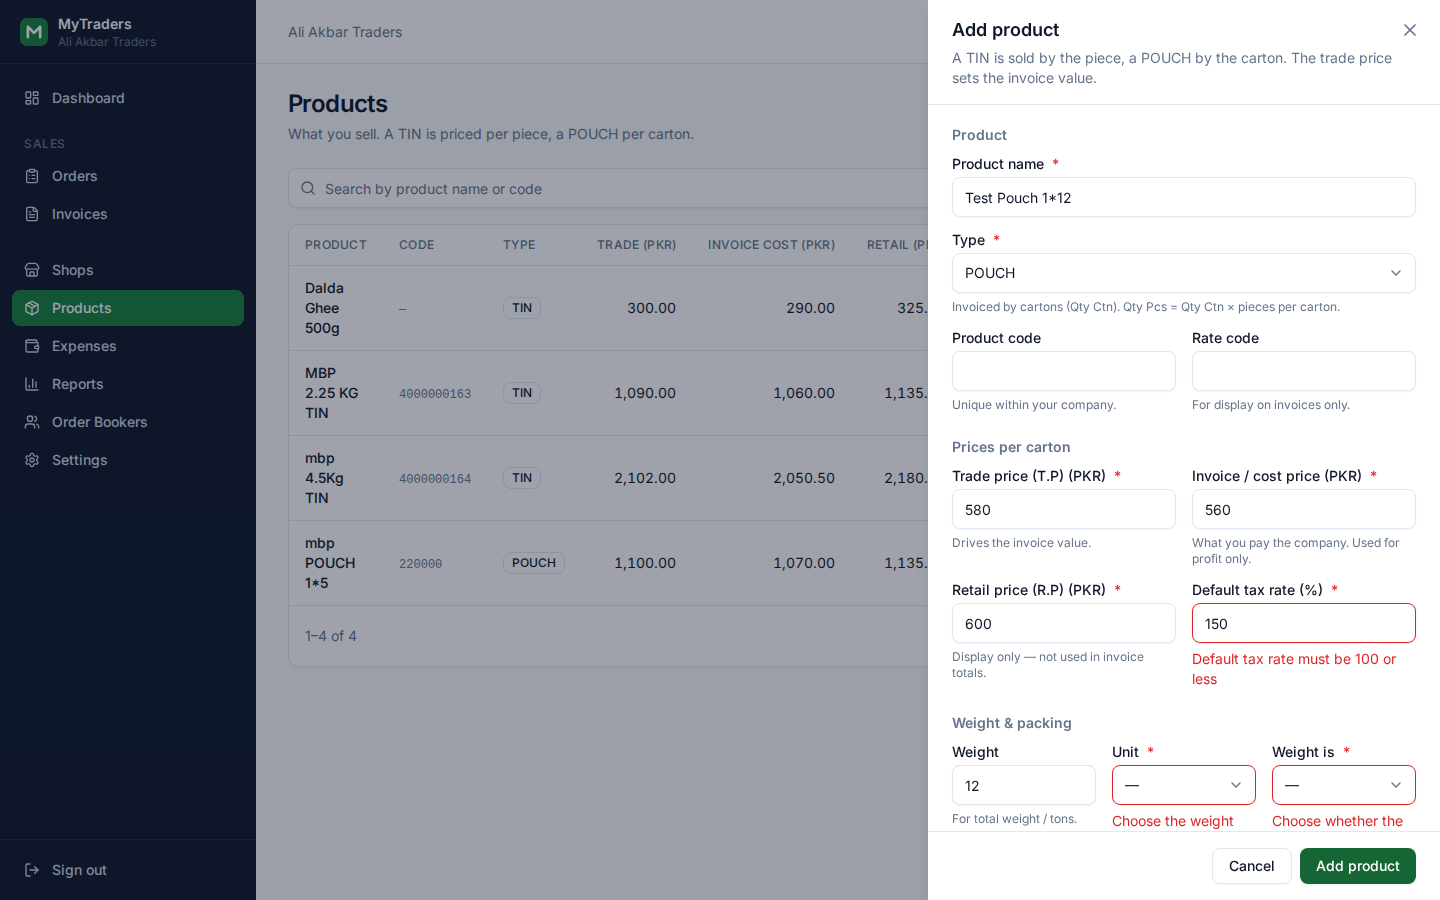
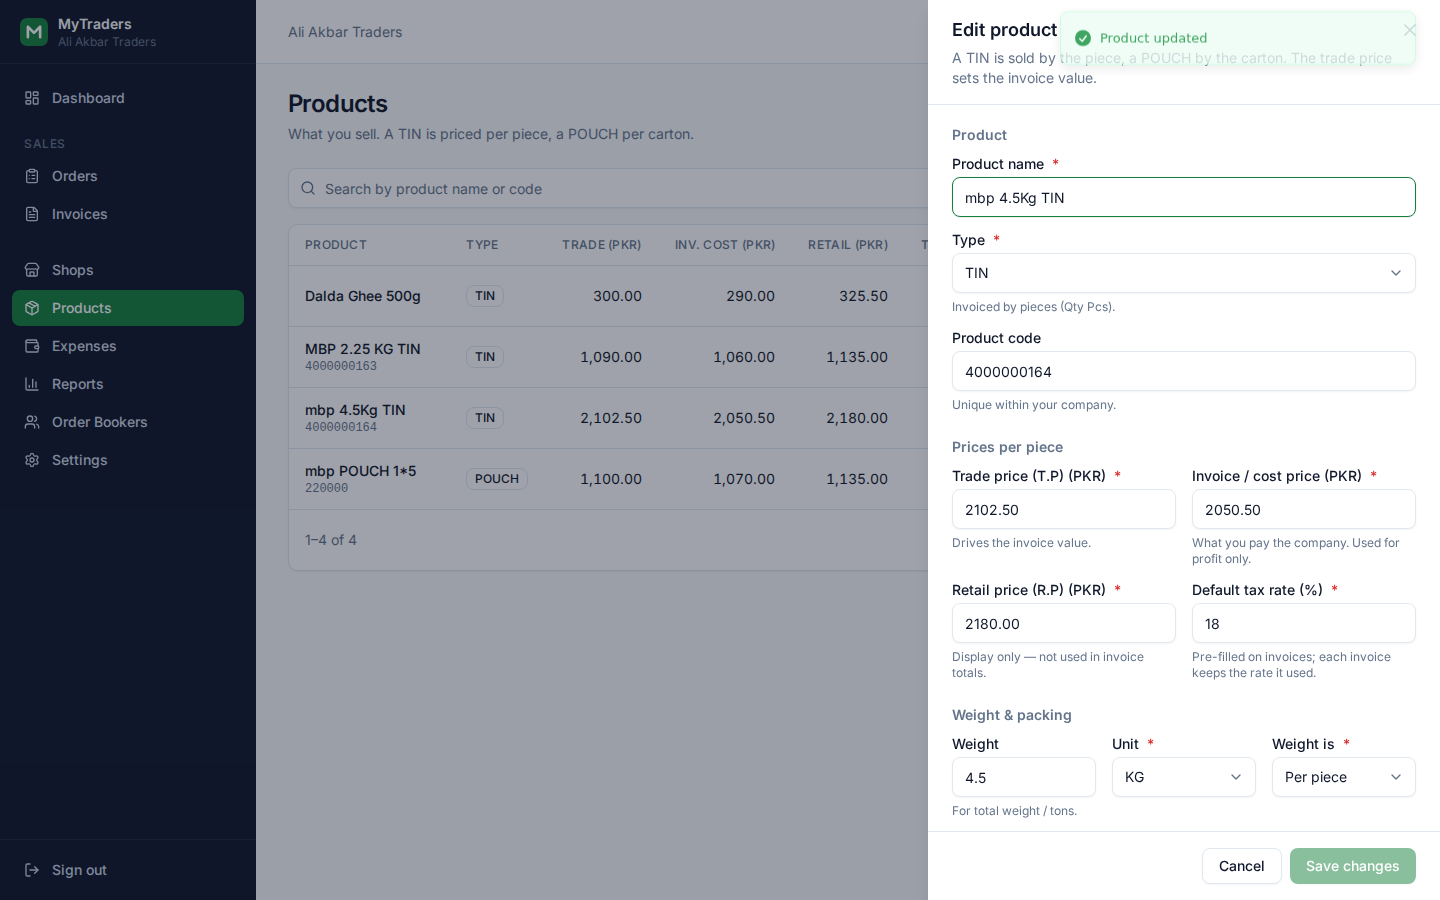
Products: remove Rate Code
Rate Code is not used anywhere (D-27): dropped from the Product table,
API, product drawer, tests and docs, and no longer planned on invoices.

Claude-Session: https://claude.ai/code/session_01XyjGgrZqM4xMfKAw4GLBcw

diff --git a/apps/api/test/products.e2e-spec.ts b/apps/api/test/products.e2e-spec.ts
@@ -7,7 +7,6 @@ const DALDA_TIN = {
   name: 'mbp 4.5Kg TIN',
   code: '4000000164',
   type: 'TIN',
-  rateCode: '9020',
   retailPrice: '2180',
   tradePrice: '2102.50',
   invoiceCostPrice: '2050.25',
@@ -21,7 +20,6 @@ const DALDA_POUCH = {
   name: 'mbp POUCH 1*5',
   code: '220000',
   type: 'POUCH',
-  rateCode: '9015',
   retailPrice: '1135',
   tradePrice: '1100',
   invoiceCostPrice: '1050',
@@ -87,7 +85,6 @@ describe('Products (e2e)', () => {
         name: 'mbp 4.5Kg TIN',
         code: '4000000164',
         type: 'TIN',
-        rateCode: '9020',
         retailPrice: '2180.00',
         tradePrice: '2102.50',
         invoiceCostPrice: '2050.25',
@@ -119,7 +116,6 @@ describe('Products (e2e)', () => {
         name: 'Dalda Ghee 1Kg',
         type: 'TIN',
         code: null,
-        rateCode: null,
         weight: null,
         weightUnit: null,
         weightBasis: null,
@@ -133,7 +129,6 @@ describe('Products (e2e)', () => {
         ...REQUIRED_ONLY,
         name: '  Dalda   Ghee 500g ',
         code: '  ',
-        rateCode: '',
         weight: '',
         weightUnit: '',
         weightBasis: '',
@@ -142,7 +137,6 @@ describe('Products (e2e)', () => {
       expect(res.body).toMatchObject({
         name: 'Dalda Ghee 500g',
         code: null,
-        rateCode: null,
         weight: null,
         weightUnit: null,
         weightBasis: null,
@@ -423,7 +417,6 @@ describe('Products (e2e)', () => {
       await update(adminA, id, { type: 'TIN' }).expect(200);
       const res = await update(adminA, id, {
         code: '',
-        rateCode: null,
         weight: '',
         weightUnit: null,
         weightBasis: '',
@@ -431,7 +424,6 @@ describe('Products (e2e)', () => {
       }).expect(200);
       expect(res.body).toMatchObject({
         code: null,
-        rateCode: null,
         weight: null,
         weightUnit: null,
         weightBasis: null,

diff --git a/apps/web/src/features/products/components/ProductFormSheet.tsx b/apps/web/src/features/products/components/ProductFormSheet.tsx
@@ -36,7 +36,6 @@ const FIELDS = [
   'name',
   'code',
   'type',
-  'rateCode',
   'retailPrice',
   'tradePrice',
   'invoiceCostPrice',
@@ -60,7 +59,6 @@ function toFormValues(product: Product | undefined, defaultTaxRate: string): Cre
     code: product?.code ?? '',
     // Empty until chosen; the schema rejects it with "Choose TIN or POUCH".
     type: product?.type ?? ('' as ProductType),
-    rateCode: product?.rateCode ?? '',
     retailPrice: product?.retailPrice ?? '',
     tradePrice: product?.tradePrice ?? '',
     invoiceCostPrice: product?.invoiceCostPrice ?? '',
@@ -186,24 +184,14 @@ function ProductForm({
               ))}
             </NativeSelect>
           </FormField>
-          <div className="grid gap-4 sm:grid-cols-2">
-            <FormField
-              id="code"
-              label="Product code"
-              error={err('code')}
-              hint="Unique within your company."
-            >
-              <Input id="code" aria-invalid={!!errors.code} {...form.register('code')} />
-            </FormField>
-            <FormField
-              id="rateCode"
-              label="Rate code"
-              error={err('rateCode')}
-              hint="For display on invoices only."
-            >
-              <Input id="rateCode" {...form.register('rateCode')} />
-            </FormField>
-          </div>
+          <FormField
+            id="code"
+            label="Product code"
+            error={err('code')}
+            hint="Unique within your company."
+          >
+            <Input id="code" aria-invalid={!!errors.code} {...form.register('code')} />
+          </FormField>
         </Group>
 
         <Group

diff --git a/packages/shared-types/src/products.ts b/packages/shared-types/src/products.ts
@@ -1,5 +1,5 @@
 import { z } from 'zod';
-import { cleanName, optionalText, paginatedSchema, paginationQuerySchema } from './common';
+import { cleanName, paginatedSchema, paginationQuerySchema } from './common';
 import { ProductType, ProductUnit, WeightBasis } from './enums';
 
 export const PRODUCT_NAME_MAX = 150;
@@ -16,7 +16,6 @@ export const productSchema = z.object({
   name: z.string(),
   code: z.string().nullable(),
   type: z.enum(ProductType),
-  rateCode: z.string().nullable(),
   /** e.g. "2180.00" — display / reference only */
   retailPrice: z.string(),
   /** drives the invoice value */
@@ -134,7 +133,6 @@ const productFields = {
   name: productName,
   code: optionalCode,
   type: z.enum(ProductType, { message: 'Choose TIN or POUCH' }),
-  rateCode: optionalText(PRODUCT_CODE_MAX),
   retailPrice: money('Retail price'),
   tradePrice: money('Trade price'),
   invoiceCostPrice: money('Invoice / cost price'),

diff --git a/apps/api/src/modules/products/products.service.ts b/apps/api/src/modules/products/products.service.ts
@@ -21,7 +21,6 @@ const PRODUCT_FIELDS = {
   name: true,
   code: true,
   type: true,
-  rateCode: true,
   retailPrice: true,
   tradePrice: true,
   invoiceCostPrice: true,
@@ -92,7 +91,6 @@ export class ProductsService {
           code: input.code ?? null,
           codeNormalized: normalizeCode(input.code),
           type: input.type,
-          rateCode: input.rateCode ?? null,
           retailPrice: input.retailPrice,
           tradePrice: input.tradePrice,
           invoiceCostPrice: input.invoiceCostPrice,

diff --git a/docs/product-requirements.md b/docs/product-requirements.md
@@ -99,7 +99,6 @@ Product master (defaults, editable any time):
 | Name | **Required** (max 150 chars, extra spaces removed) |
 | Type | **Required**; `TIN` or `POUCH` (see above) |
 | Product Code | Optional; unique per organization when set (case-insensitive) |
-| Rate Code | Optional; **display only**, never used in calculations |
 | Trade Price (T.P) | **Required**; ≥ 0, max 2 decimals. **Drives the invoice value** |
 | Invoice / Cost Price | **Required**; ≥ 0, max 2 decimals; what the distributor is invoiced by the company. **Used for profit only** — never in invoice totals |
 | Retail Price (R.P) | **Required**; ≥ 0, max 2 decimals. **Display / reference only** — does not affect invoice calculations |
@@ -196,7 +195,7 @@ Super Admin + subscription status (`TRIAL / ACTIVE / SUSPENDED`), stock / purcha
 | D-5 | Old khata credit is entered via "Add Credit" (ledger `MANUAL_ADJUSTMENT`) | Owner answer |
 | D-6 | Overpayment is rejected by the backend | Owner answer |
 | D-7 | Cost price is entered per product by Admin, snapshotted per invoice item | Owner answer |
-| D-8 | Rate Code is display-only | Owner answer |
+| D-8 | ~~Rate Code is display-only~~ — Rate Code removed entirely (D-27) | Owner answer |
 | D-9 | Previous balance printed as "Credit Balance"; ledger debits only this invoice's own amount | Owner answer |
 | D-10 | Shop NTN / STRN / CNIC / contact / shop category (channel) are optional | Owner answer |
 | D-11 | No partner split; show Net Profit only | Owner answer |
@@ -209,8 +208,9 @@ Super Admin + subscription status (`TRIAL / ACTIVE / SUSPENDED`), stock / purcha
 | D-18 | Admin may set the next invoice number, only forward (never lower than the current counter) | Phase 1 implementation |
 | D-19 | In the MVP the Admin manages Order Booker accounts only; Admins are created via CLI | Owner request (Phase 1) |
 | D-20 | Logo stored as an image URL; upload deferred | Phase 1 implementation |
-| D-22 | ~~Products carry no tax rate~~ — superseded by D-26. Product Name and the three prices are required; Product Name, Retail, Trade and Cost Price are required; Code, Rate Code, Weight, Pieces per Carton optional | Owner decision (Phase 2) |
+| D-22 | ~~Products carry no tax rate~~ — superseded by D-26. Product Name and the three prices are required; Code, Weight, Pieces per Carton optional | Owner decision (Phase 2) |
 | D-26 | Product **Type** `TIN \| POUCH`: a TIN is invoiced by `Qty Pcs`, a POUCH by `Qty Ctn` (`Qty Pcs = Qty Ctn × Pieces per Carton`, display only; POUCH requires Pieces per Carton). **Trade Price drives the invoice value; Invoice/Cost Price is for profit only; Retail Price is display only.** Products carry a required **Default Tax Rate** (pre-filled from the organization default) which the invoice snapshots. Weight has a unit and a basis (`PIECE \| CARTON`). Supersedes D-22, refines D-15 and OQ-6. Cost Price renamed Invoice/Cost Price | Owner decision (before Phase 4) |
+| D-27 | **No Rate Code** anywhere — removed from products and not printed on invoices | Owner decision (before Phase 4) |
 | D-23 | Shop foreign keys (area, category, order booker) are validated inside the current organization and must be active when chosen; the booker must have role ORDER_BOOKER; shop names are not unique | Phase 2 implementation |
 | D-24 | Order Bookers see **no prices at all** (no cost / trade / retail price, tax, discount, payment, credit) — products and quantities only. Supersedes D-17 | Owner decision (Phase 3) |
 | D-25 | Orders are created only by Order Bookers for their own active assigned shops; quantities are whole units (1–100,000); duplicate products in one order are rejected; Admin and booker may cancel a `PENDING` order (booker only their own) | Phase 3 implementation |

diff --git a/docs/database-design.md b/docs/database-design.md
@@ -159,7 +159,6 @@ model Product {
   code            String?                                   // optional
   codeNormalized  String?                                   // lower-cased code; unique per org when set
   type            ProductType                               // TIN (invoiced by pieces) | POUCH (by cartons) — D-26
-  rateCode        String?                                   // display only
   retailPrice     Decimal      @db.Decimal(14, 2)           // R.P, display only
   tradePrice      Decimal      @db.Decimal(14, 2)           // T.P, drives the invoice value
   invoiceCostPrice Decimal     @db.Decimal(14, 2)           // company invoice price; profit only
@@ -247,7 +246,6 @@ model InvoiceItem {
   // snapshots
   productCode     String?
   productName     String
-  rateCode        String?
   retailPrice     Decimal @db.Decimal(14, 2)
   tradePrice      Decimal @db.Decimal(14, 2)
   piecesPerCarton Int

diff --git a/docs/implementation-plan.md b/docs/implementation-plan.md
@@ -28,6 +28,7 @@ Status legend: ☐ todo · ◐ in progress · ☑ done · ⛔ blocked on open qu
 - ☑ Shop Categories (shop types) — Settings → Shop Categories; `GET/POST /shop-categories`, `GET/PATCH /shop-categories/:id`. Product Categories removed from the MVP (D-21)
 - ☑ Products (table + drawer) — `GET/POST /products`, `GET/PATCH /products/:id`
 - ☑ Product invoice rules (D-26): Type TIN/POUCH, Invoice/Cost Price, Default Tax Rate, Weight Unit + Basis, POUCH requires Pieces per Carton; data-preserving migration; type filter
+- ☑ Rate Code removed from products (D-27)
 - ☑ Shops (table, filters, drawer, assign booker; FK validation in organization, D-23) — `GET/POST /shops`, `GET/PATCH /shops/:id`
 - ◐ Shop details page — ☑ info/assignment/tax + placeholders; balance, ledger, Add Credit in Phase 5
 - ☐ Shops export Excel / PDF (filtered)

diff --git a/docs/invoice-specification.md b/docs/invoice-specification.md
@@ -31,7 +31,6 @@ Reference: the customer's current invoice (Ali Akbar Traders, `M-00000001`).
 | Product Code | snapshot | Product | `productCode` | — |
 | Product Name | snapshot | Product | `productName` | — |
 | R.P / Pcs incl. tax | editable, display only | Product.retailPrice | `retailPrice` | never used in invoice math (D-26) |
-| Rate Code | snapshot, display only | Product.rateCode | `rateCode` | never used in math |
 | T.P / Pcs excl. FED | editable | Product.tradePrice | `tradePrice` | **drives the invoice value** (D-26); exact formula TBC |
 | Qty (ctn) | editable | Order qty | `cartonQty` | **POUCH:** the pricing quantity. TIN: TBC |
 | Qty (pcs) | editable / derived | — | `pieceQty` | **TIN:** the pricing quantity. **POUCH:** display only, auto = Qty Ctn × Pieces per Carton (D-26) |
